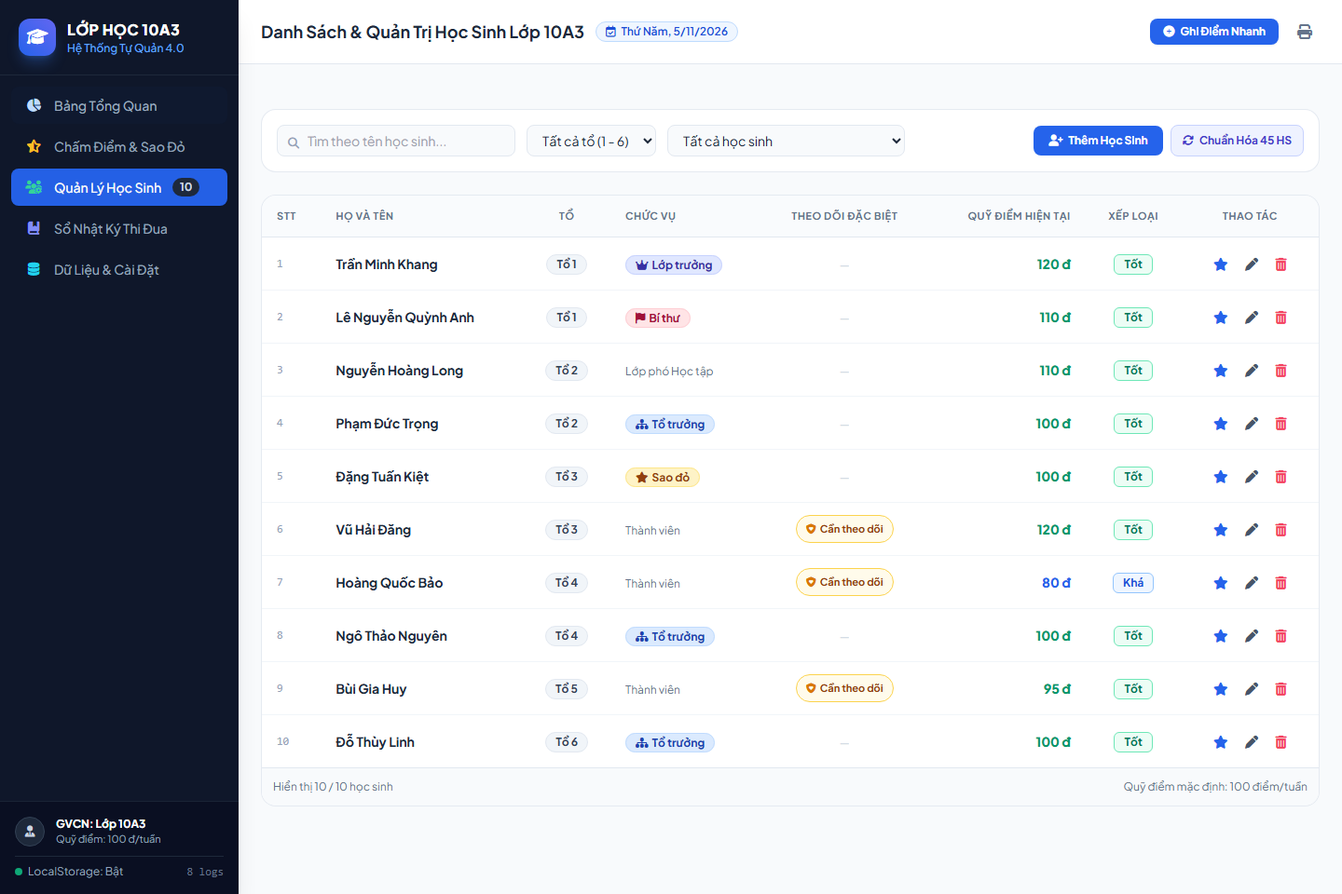
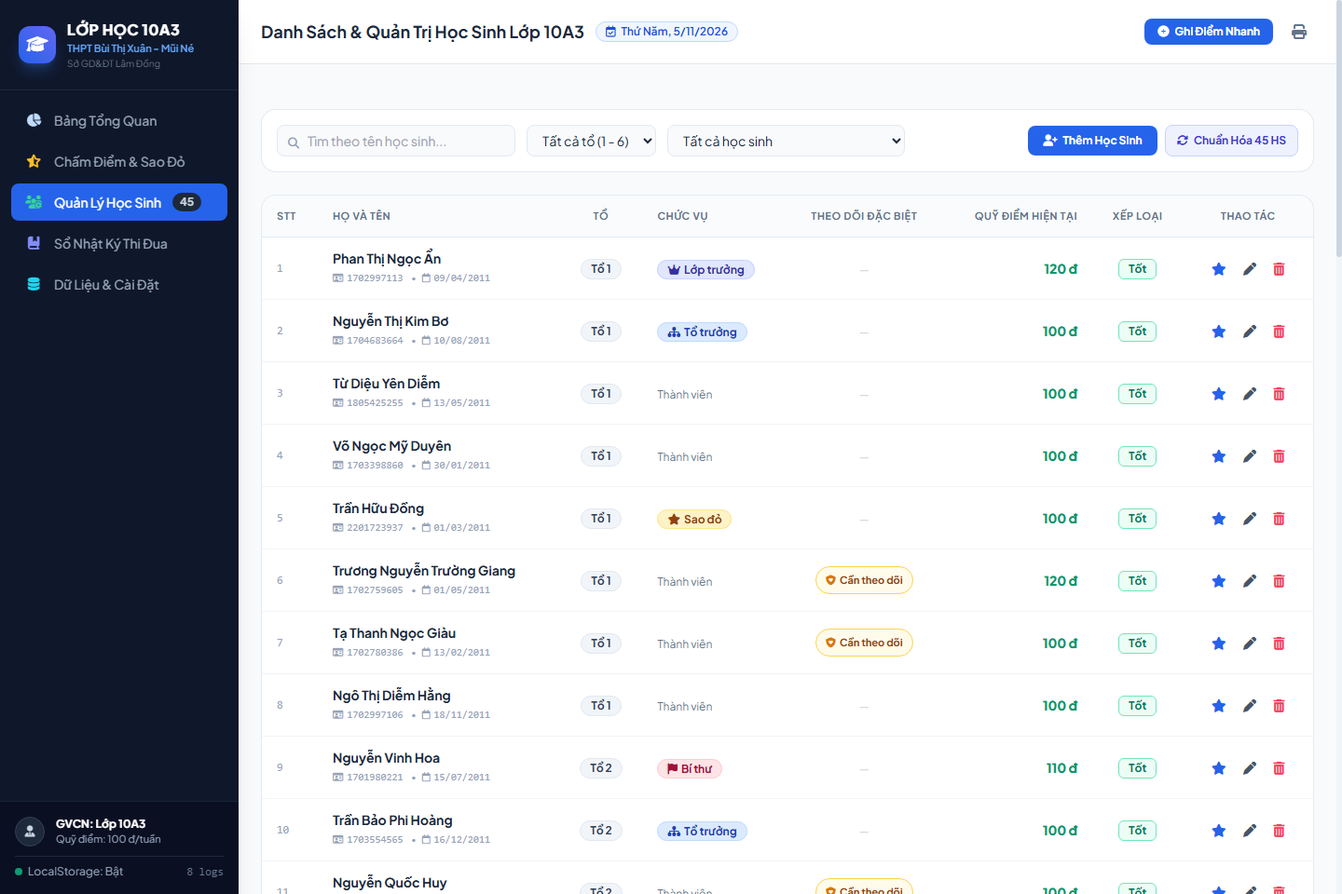
feat: Cap nhat danh sach chinh thuc 45 hoc sinh THPT Bui Thi Xuan - Mui Ne

diff --git a/app.js b/app.js
@@ -62,9 +62,10 @@ document.addEventListener('DOMContentLoaded', () => {
   renderRuleButtons();
   loadDataFromStorage();
 
-  // Nếu chưa có dữ liệu, tự động nạp 10 học sinh mẫu ban đầu theo Protocol
-  if (appState.students.length === 0) {
-    inject10SampleStudents(false);
+  // Tự động nạp danh sách 45 học sinh chính thức THPT Bùi Thị Xuân - Mũi Né nếu chưa có hoặc đang là dữ liệu demo cũ
+  const isOldDemo = appState.students.length <= 10 && appState.students.some(s => s.fullName === 'Trần Minh Khang');
+  if (appState.students.length === 0 || isOldDemo) {
+    injectOfficial45Students(false);
   }
 
   // Kiểm tra URL hash (vd: #scoring, #students) để mở tab tương ứng
@@ -678,8 +679,12 @@ function renderStudentsTable() {
 
     tr.innerHTML = `
       <td class="py-3 px-4 font-mono text-xs text-slate-400">${index + 1}</td>
-      <td class="py-3 px-4 font-bold text-slate-800 cursor-pointer hover:text-blue-600" onclick="openStudentDetailModal('${stu.id}')">
-        ${escapeHtml(stu.fullName)}
+      <td class="py-3 px-4 cursor-pointer" onclick="openStudentDetailModal('${stu.id}')">
+        <span class="font-bold text-slate-800 text-sm hover:text-blue-600 transition block">${escapeHtml(stu.fullName)}</span>
+        <span class="text-[11px] text-slate-400 font-mono flex items-center space-x-2 mt-0.5">
+          <span><i class="fa-regular fa-id-card text-[10px] mr-1"></i>${stu.code || 'Chưa có mã'}</span>
+          ${stu.dob ? `<span>• <i class="fa-regular fa-calendar text-[10px] mr-1"></i>${stu.dob}</span>` : ''}
+        </span>
       </td>
       <td class="py-3 px-4 text-center">
         <span class="inline-block px-2.5 py-0.5 rounded-full text-xs font-bold bg-slate-100 text-slate-700 border border-slate-200">
@@ -734,6 +739,8 @@ function openAddStudentModal() {
   document.getElementById('modal-student-title').textContent = 'Thêm Học Sinh Mới';
   document.getElementById('student-form-id').value = '';
   document.getElementById('student-form-name').value = '';
+  document.getElementById('student-form-code').value = '';
+  document.getElementById('student-form-dob').value = '';
   document.getElementById('student-form-group').value = '1';
   document.getElementById('student-form-role').value = 'Thành viên';
   document.getElementById('student-form-special').checked = false;
@@ -750,6 +757,8 @@ function openEditStudentModal(id) {
   document.getElementById('modal-student-title').textContent = 'Chỉnh Sửa Thông Tin Học Sinh';
   document.getElementById('student-form-id').value = stu.id;
   document.getElementById('student-form-name').value = stu.fullName;
+  document.getElementById('student-form-code').value = stu.code || '';
+  document.getElementById('student-form-dob').value = stu.dob || '';
   document.getElementById('student-form-group').value = stu.groupNumber;
   document.getElementById('student-form-role').value = stu.role;
   document.getElementById('student-form-special').checked = stu.isSpecialSupport;
@@ -769,6 +778,8 @@ function saveStudentForm(e) {
   e.preventDefault();
   const id = document.getElementById('student-form-id').value;
   const fullName = document.getElementById('student-form-name').value.trim();
+  const code = document.getElementById('student-form-code').value.trim();
+  const dob = document.getElementById('student-form-dob').value.trim();
   const groupNumber = Number(document.getElementById('student-form-group').value);
   const role = document.getElementById('student-form-role').value;
   const isSpecialSupport = document.getElementById('student-form-special').checked;
@@ -785,6 +796,8 @@ function saveStudentForm(e) {
       appState.students[index] = {
         ...appState.students[index],
         fullName,
+        code,
+        dob,
         groupNumber,
         role,
         isSpecialSupport
@@ -795,6 +808,8 @@ function saveStudentForm(e) {
     // Thêm mới
     const newStudent = {
       id: generateUUID(),
+      code,
+      dob,
       fullName,
       groupNumber,
       role,
@@ -908,7 +923,7 @@ function openStudentDetailModal(studentId) {
   const stuLogs = appState.dailyLogs.filter(l => l.studentId === studentId);
 
   document.getElementById('detail-student-name').textContent = stu.fullName;
-  document.getElementById('detail-student-meta').textContent = `Tổ ${stu.groupNumber} • ${stu.role}${stu.isSpecialSupport ? ' • [Cần hỗ trợ đặc biệt]' : ''}`;
+  document.getElementById('detail-student-meta').textContent = `Tổ ${stu.groupNumber} • ${stu.role}${stu.code ? ` • Mã: ${stu.code}` : ''}${stu.dob ? ` • NS: ${stu.dob}` : ''}${stu.isSpecialSupport ? ' • [Cần hỗ trợ đặc biệt]' : ''}`;
   document.getElementById('detail-student-score').textContent = `${score} đ`;
   document.getElementById('detail-student-rank').textContent = tier.label;
   document.getElementById('detail-student-rank').className = `text-sm font-bold ${tier.color} px-2 py-0.5 rounded border inline-block`;
@@ -1005,52 +1020,103 @@ function inject10SampleStudents(notify = true) {
   }
 }
 
-// Khởi tạo toàn bộ 45 học sinh lớp 10A3 chuẩn (6 tổ, 10 em diện theo dõi đặc biệt)
+// ==================== DỮ LIỆU CHÍNH THỨC 45 HỌC SINH 10A3 ====================
+// Trường THPT Bùi Thị Xuân - Mũi Né (Sở GD&ĐT Lâm Đồng)
+const OFFICIAL_10A3_STUDENTS = [
+  // Tổ 1 (8 học sinh, 2 diện hỗ trợ)
+  { id: 'hs_10a3_01', code: '1702997113', fullName: 'Phan Thị Ngọc Ẩn', dob: '09/04/2011', groupNumber: 1, role: 'Lớp trưởng', isSpecialSupport: false },
+  { id: 'hs_10a3_02', code: '1704683664', fullName: 'Nguyễn Thị Kim Bơ', dob: '10/08/2011', groupNumber: 1, role: 'Tổ trưởng', isSpecialSupport: false },
+  { id: 'hs_10a3_03', code: '1805425255', fullName: 'Từ Diệu Yên Diễm', dob: '13/05/2011', groupNumber: 1, role: 'Thành viên', isSpecialSupport: false },
+  { id: 'hs_10a3_04', code: '1703398860', fullName: 'Võ Ngọc Mỹ Duyên', dob: '30/01/2011', groupNumber: 1, role: 'Thành viên', isSpecialSupport: false },
+  { id: 'hs_10a3_05', code: '2201723937', fullName: 'Trần Hữu Đồng', dob: '01/03/2011', groupNumber: 1, role: 'Sao đỏ', isSpecialSupport: false },
+  { id: 'hs_10a3_06', code: '1702759605', fullName: 'Trương Nguyễn Trường Giang', dob: '01/05/2011', groupNumber: 1, role: 'Thành viên', isSpecialSupport: true },
+  { id: 'hs_10a3_07', code: '1702780386', fullName: 'Tạ Thanh Ngọc Giàu', dob: '13/02/2011', groupNumber: 1, role: 'Thành viên', isSpecialSupport: true },
+  { id: 'hs_10a3_08', code: '1702997106', fullName: 'Ngô Thị Diễm Hằng', dob: '18/11/2011', groupNumber: 1, role: 'Thành viên', isSpecialSupport: false },
+
+  // Tổ 2 (8 học sinh, 2 diện hỗ trợ)
+  { id: 'hs_10a3_09', code: '1701980221', fullName: 'Nguyễn Vinh Hoa', dob: '15/07/2011', groupNumber: 2, role: 'Bí thư', isSpecialSupport: false },
+  { id: 'hs_10a3_10', code: '1703554565', fullName: 'Trần Bảo Phi Hoàng', dob: '16/12/2011', groupNumber: 2, role: 'Tổ trưởng', isSpecialSupport: false },
+  { id: 'hs_10a3_11', code: '1701470035', fullName: 'Nguyễn Quốc Huy', dob: '19/09/2011', groupNumber: 2, role: 'Thành viên', isSpecialSupport: true },
+  { id: 'hs_10a3_12', code: '1701384874', fullName: 'Đỗ Tuấn Hưng', dob: '17/06/2011', groupNumber: 2, role: 'Thành viên', isSpecialSupport: false },
+  { id: 'hs_10a3_13', code: '1701502384', fullName: 'Lê Minh Khải', dob: '25/06/2011', groupNumber: 2, role: 'Sao đỏ', isSpecialSupport: false },
+  { id: 'hs_10a3_14', code: '1704379491', fullName: 'Nguyễn Vinh Khang', dob: '16/10/2011', groupNumber: 2, role: 'Thành viên', isSpecialSupport: false },
+  { id: 'hs_10a3_15', code: '1704121058', fullName: 'Võ Quốc Duy Khôi', dob: '06/07/2011', groupNumber: 2, role: 'Thành viên', isSpecialSupport: true },
+  { id: 'hs_10a3_16', code: '1701502268', fullName: 'Nguyễn Tấn Kỳ', dob: '26/12/2011', groupNumber: 2, role: 'Thành viên', isSpecialSupport: false },
+
+  // Tổ 3 (8 học sinh, 1 diện hỗ trợ)
+  { id: 'hs_10a3_17', code: '1702780666', fullName: 'Lê Thị Mỹ Linh', dob: '15/10/2011', groupNumber: 3, role: 'Lớp phó Học tập', isSpecialSupport: false },
+  { id: 'hs_10a3_18', code: '1702780393', fullName: 'Nguyễn Đỗ Kim Yến Linh', dob: '19/06/2011', groupNumber: 3, role: 'Tổ trưởng', isSpecialSupport: false },
+  { id: 'hs_10a3_19', code: '1704303580', fullName: 'Bùi Nguyễn Hoàng Long', dob: '30/10/2011', groupNumber: 3, role: 'Thành viên', isSpecialSupport: false },
+  { id: 'hs_10a3_20', code: '1702880874', fullName: 'Nguyễn Bảo Long', dob: '24/04/2011', groupNumber: 3, role: 'Thành viên', isSpecialSupport: false },
+  { id: 'hs_10a3_21', code: '1703805924', fullName: 'Trần Minh Luân', dob: '25/12/2011', groupNumber: 3, role: 'Sao đỏ', isSpecialSupport: false },
+  { id: 'hs_10a3_22', code: '1701941028', fullName: 'Nguyễn Hữu Đan Mạch', dob: '01/01/2011', groupNumber: 3, role: 'Thành viên', isSpecialSupport: true },
+  { id: 'hs_10a3_23', code: '1704684195', fullName: 'Trương Thị Mỹ Ngân', dob: '23/02/2011', groupNumber: 3, role: 'Thành viên', isSpecialSupport: false },
+  { id: 'hs_10a3_24', code: '1805586434', fullName: 'Nguyễn Hoàng Gia Nguyên', dob: '06/01/2011', groupNumber: 3, role: 'Thành viên', isSpecialSupport: false },
+
+  // Tổ 4 (7 học sinh, 2 diện hỗ trợ)
+  { id: 'hs_10a3_25', code: '1702780397', fullName: 'Võ Thị Yến Nhi', dob: '16/04/2011', groupNumber: 4, role: 'Lớp phó Lao động', isSpecialSupport: false },
+  { id: 'hs_10a3_26', code: '1703554579', fullName: 'Cao Ngọc An Nhiên', dob: '14/12/2011', groupNumber: 4, role: 'Tổ trưởng', isSpecialSupport: false },
+  { id: 'hs_10a3_27', code: '1702997079', fullName: 'Trần Lê Hồng Nhung', dob: '20/10/2011', groupNumber: 4, role: 'Thành viên', isSpecialSupport: false },
+  { id: 'hs_10a3_28', code: '1805586438', fullName: 'Võ Thành Phát', dob: '14/11/2011', groupNumber: 4, role: 'Thành viên', isSpecialSupport: true },
+  { id: 'hs_10a3_29', code: '1702716688', fullName: 'Nguyễn Xuân Phúc', dob: '23/11/2011', groupNumber: 4, role: 'Thành viên', isSpecialSupport: false },
+  { id: 'hs_10a3_30', code: '1701941035', fullName: 'Trần Thị Ngọc Phúc', dob: '09/09/2011', groupNumber: 4, role: 'Thành viên', isSpecialSupport: true },
+  { id: 'hs_10a3_31', code: '1704684848', fullName: 'Hoàng Thế Tài', dob: '04/10/2011', groupNumber: 4, role: 'Thành viên', isSpecialSupport: false },
+
+  // Tổ 5 (7 học sinh, 1 diện hỗ trợ)
+  { id: 'hs_10a3_32', code: '1704379981', fullName: 'Lê Tuấn Phát Tài', dob: '17/07/2011', groupNumber: 5, role: 'Tổ trưởng', isSpecialSupport: false },
+  { id: 'hs_10a3_33', code: '1703412028', fullName: 'Đỗ Quốc Thành', dob: '19/08/2011', groupNumber: 5, role: 'Sao đỏ', isSpecialSupport: false },
+  { id: 'hs_10a3_34', code: '1704831627', fullName: 'Nguyễn Ngọc Anh Thư', dob: '24/10/2011', groupNumber: 5, role: 'Thành viên', isSpecialSupport: false },
+  { id: 'hs_10a3_35', code: '1703919858', fullName: 'Nguyễn Ngọc Trinh', dob: '18/04/2011', groupNumber: 5, role: 'Thành viên', isSpecialSupport: true },
+  { id: 'hs_10a3_36', code: '1701981797', fullName: 'Lê Thị Kim Trúc', dob: '25/08/2011', groupNumber: 5, role: 'Thành viên', isSpecialSupport: false },
+  { id: 'hs_10a3_37', code: '1701981799', fullName: 'Võ Bách Tùng', dob: '19/08/2011', groupNumber: 5, role: 'Thành viên', isSpecialSupport: false },
+  { id: 'hs_10a3_38', code: '1704784854', fullName: 'Nguyễn Thị Thanh Tuyền', dob: '12/01/2011', groupNumber: 5, role: 'Thành viên', isSpecialSupport: false },
+
+  // Tổ 6 (7 học sinh, 2 diện hỗ trợ)
+  { id: 'hs_10a3_39', code: '1702759627', fullName: 'Nguyễn Thị Thanh Tuyền', dob: '14/06/2011', groupNumber: 6, role: 'Thành viên', isSpecialSupport: false },
+  { id: 'hs_10a3_40', code: '1803521194', fullName: 'Trần Phúc Vinh', dob: '06/09/2011', groupNumber: 6, role: 'Tổ trưởng', isSpecialSupport: false },
+  { id: 'hs_10a3_41', code: '1701472685', fullName: 'Lê Gia Vũ', dob: '08/03/2011', groupNumber: 6, role: 'Thành viên', isSpecialSupport: true },
+  { id: 'hs_10a3_42', code: '1702780409', fullName: 'Lê Văn Vũ', dob: '03/01/2011', groupNumber: 6, role: 'Thành viên', isSpecialSupport: false },
+  { id: 'hs_10a3_43', code: '1704246671', fullName: 'Dương Lục Yến Vy', dob: '24/09/2011', groupNumber: 6, role: 'Thành viên', isSpecialSupport: false },
+  { id: 'hs_10a3_44', code: '2511977424', fullName: 'Phạm Ngọc Tường Vy', dob: '01/08/2010', groupNumber: 6, role: 'Thành viên', isSpecialSupport: true },
+  { id: 'hs_10a3_45', code: '1703509575', fullName: 'Đỗ Khôi Vỹ', dob: '08/12/2011', groupNumber: 6, role: 'Thành viên', isSpecialSupport: false }
+];
+
+// Khởi tạo toàn bộ 45 học sinh lớp 10A3 chuẩn
 function injectFull45StudentsPrompt() {
-  if (confirm('Thao tác này sẽ tải danh sách chuẩn 45 học sinh của lớp 10A3 (chia đều 6 tổ, có đủ 10 em diện hỗ trợ đặc biệt). Tiếp tục?')) {
-    injectFull45Students();
+  if (confirm('Thao tác này sẽ tải danh sách chính thức 45 học sinh Lớp 10A3 Trường THPT Bùi Thị Xuân - Mũi Né (chia đều 6 tổ, 10 em diện theo dõi đặc biệt). Tiếp tục?')) {
+    injectOfficial45Students(true);
   }
 }
 
-function injectFull45Students() {
-  const firstNames = ['Nguyễn', 'Trần', 'Lê', 'Phạm', 'Hoàng', 'Vũ', 'Phan', 'Võ', 'Đặng', 'Bùi', 'Đỗ', 'Hồ', 'Ngô', 'Dương', 'Lý'];
-  const middleNames = ['Văn', 'Thị', 'Đức', 'Minh', 'Ngọc', 'Thanh', 'Quốc', 'Gia', 'Hải', 'Thùy', 'Hữu', 'Anh'];
-  const lastNames = ['An', 'Bình', 'Cường', 'Dũng', 'Giang', 'Hà', 'Hải', 'Hiếu', 'Huy', 'Khoa', 'Linh', 'Long', 'Mai', 'Nam', 'Nhi', 'Phong', 'Phúc', 'Quân', 'Sơn', 'Tài', 'Tâm', 'Thảo', 'Trang', 'Trung', 'Tuấn', 'Tùng', 'Vinh', 'Vy', 'Yến'];
+function injectOfficial45Students(notify = true) {
+  const today = new Date().toISOString().split('T')[0];
+  const yesterday = new Date(Date.now() - 86400000).toISOString().split('T')[0];
 
-  // 10 chỉ số học sinh diện theo dõi đặc biệt
-  const specialIndices = new Set([5, 6, 12, 18, 23, 27, 31, 35, 41, 44]);
+  const sampleLogs = [
+    // Lớp trưởng Phan Thị Ngọc Ẩn hoàn thành xuất sắc
+    { id: 'log_01', date: today, studentId: 'hs_10a3_01', type: 'bonus', ruleKey: 'bonus_duty_excellent', ruleLabel: 'Cán sự làm tốt nhiệm vụ tháng', pointsChanged: 20, recordedBy: 'GVCN', note: 'Quản lý 15 phút đầu giờ nghiêm túc', timestamp: Date.now() - 1000 },
+    // Bí thư Nguyễn Vinh Hoa kèm bạn yếu Toán
+    { id: 'log_02', date: today, studentId: 'hs_10a3_09', type: 'bonus', ruleKey: 'bonus_peer_tutoring', ruleLabel: 'Kèm bạn yếu Toán/Lý (+10 cho cả hai)', pointsChanged: 10, recordedBy: 'Lớp trưởng', note: 'Kèm bạn Trương Nguyễn Trường Giang', timestamp: Date.now() - 2000 },
+    // Trương Nguyễn Trường Giang (diện hỗ trợ) được cộng điểm kèm và nỗ lực
+    { id: 'log_03', date: today, studentId: 'hs_10a3_06', type: 'bonus', ruleKey: 'bonus_peer_tutoring', ruleLabel: 'Kèm bạn yếu Toán/Lý (+10 cho cả hai)', pointsChanged: 10, recordedBy: 'Lớp trưởng', note: 'Học nhóm tiến bộ cùng bạn Hoa', timestamp: Date.now() - 3000 },
+    { id: 'log_04', date: yesterday, studentId: 'hs_10a3_06', type: 'bonus', ruleKey: 'bonus_effort_support', ruleLabel: 'Học sinh yếu có nỗ lực làm bài', pointsChanged: 10, recordedBy: 'GV Bộ môn Toán', note: 'Chủ động lên chữa bài tập về nhà', timestamp: Date.now() - 4000 },
+    // Nguyễn Đỗ Kim Yến Linh (Tổ trưởng 3)
+    { id: 'log_05', date: today, studentId: 'hs_10a3_18', type: 'bonus', ruleKey: 'bonus_board_solution', ruleLabel: 'Xung phong lên bảng đúng', pointsChanged: 10, recordedBy: 'Sao đỏ Tổ 2', note: 'Tiết Hóa học', timestamp: Date.now() - 5000 },
+    // Nguyễn Quốc Huy (diện hỗ trợ) vi phạm và nỗ lực gỡ điểm
+    { id: 'log_06', date: yesterday, studentId: 'hs_10a3_11', type: 'violation', ruleKey: 'viol_no_homework', ruleLabel: 'Không làm bài / không học bài', pointsChanged: -10, recordedBy: 'Sao đỏ Tổ 4', note: 'Thiếu bài tập Tiếng Anh', timestamp: Date.now() - 6000 },
+    { id: 'log_07', date: today, studentId: 'hs_10a3_11', type: 'bonus', ruleKey: 'bonus_effort_support', ruleLabel: 'Học sinh yếu có nỗ lực làm bài', pointsChanged: 10, recordedBy: 'GVCN', note: 'Làm lại đầy đủ bài tập bù', timestamp: Date.now() - 7000 },
+    // Võ Thành Phát (diện hỗ trợ) đi muộn
+    { id: 'log_08', date: today, studentId: 'hs_10a3_28', type: 'violation', ruleKey: 'viol_late_uniform', ruleLabel: 'Đi muộn / sai đồng phục', pointsChanged: -5, recordedBy: 'Sao đỏ trực cổng', note: 'Muộn 10 phút tiết 1', timestamp: Date.now() - 8000 }
+  ];
 
-  const students45 = [];
-  let nameCounter = 0;
-
-  for (let i = 1; i <= 45; i++) {
-    const fn = firstNames[i % firstNames.length];
-    const mn = middleNames[(i * 3) % middleNames.length];
-    const ln = lastNames[(i * 7) % lastNames.length];
-    const groupNum = ((i - 1) % 6) + 1;
-
-    let role = 'Thành viên';
-    if (i === 1) role = 'Lớp trưởng';
-    else if (i === 2) role = 'Bí thư';
-    else if (i === 3) role = 'Lớp phó Học tập';
-    else if (i === 4) role = 'Lớp phó Lao động';
-    else if (i <= 10 && i % 2 === 0) role = 'Tổ trưởng';
-    else if (i <= 16 && i % 3 === 0) role = 'Sao đỏ';
-
-    students45.push({
-      id: `hs_10a3_${i.toString().padStart(2, '0')}`,
-      fullName: `${fn} ${mn} ${ln}`,
-      groupNumber: groupNum,
-      role: role,
-      isSpecialSupport: specialIndices.has(i),
-      createdDate: new Date().toISOString()
-    });
-  }
-
-  appState.students = students45;
+  appState.students = OFFICIAL_10A3_STUDENTS;
+  appState.dailyLogs = sampleLogs;
   saveDataToStorage();
   refreshAllUI();
-  showToast('Đã nạp đầy đủ danh sách 45 học sinh lớp 10A3!', 'success');
+
+  if (notify) {
+    showToast('Đã nạp danh sách chính thức 45 học sinh Lớp 10A3 Trường THPT Bùi Thị Xuân - Mũi Né!', 'success');
+  }
 }
 
 // Reset toàn bộ về trắng

diff --git a/index.html b/index.html
@@ -52,7 +52,8 @@
         </div>
         <div>
           <h1 class="text-base font-extrabold text-white tracking-wide">LỚP HỌC 10A3</h1>
-          <p class="text-xs text-blue-400 font-medium">Hệ Thống Tự Quản 4.0</p>
+          <p class="text-[11px] text-blue-400 font-semibold truncate max-w-[160px]" title="THPT Bùi Thị Xuân - Mũi Né">THPT Bùi Thị Xuân - Mũi Né</p>
+          <p class="text-[10px] text-slate-500">Sở GD&ĐT Lâm Đồng</p>
         </div>
       </div>
 
@@ -642,7 +643,17 @@
         <input type="hidden" id="student-form-id">
         <div>
           <label class="block text-xs font-bold text-slate-700 uppercase mb-1">Họ và Tên Học Sinh <span class="text-rose-500">*</span></label>
-          <input type="text" id="student-form-name" required placeholder="Ví dụ: Nguyễn Văn An" class="w-full border border-slate-300 rounded-lg px-3 py-2 focus:ring-2 focus:ring-blue-500 focus:outline-none">
+          <input type="text" id="student-form-name" required placeholder="Ví dụ: Phan Thị Ngọc Ẩn" class="w-full border border-slate-300 rounded-lg px-3 py-2 focus:ring-2 focus:ring-blue-500 focus:outline-none">
+        </div>
+        <div class="grid grid-cols-2 gap-3">
+          <div>
+            <label class="block text-xs font-bold text-slate-700 uppercase mb-1">Mã Học Sinh</label>
+            <input type="text" id="student-form-code" placeholder="Ví dụ: 1702997113" class="w-full border border-slate-300 rounded-lg px-3 py-2 font-mono text-sm focus:ring-2 focus:ring-blue-500 focus:outline-none">
+          </div>
+          <div>
+            <label class="block text-xs font-bold text-slate-700 uppercase mb-1">Ngày Sinh (DD/MM/YYYY)</label>
+            <input type="text" id="student-form-dob" placeholder="Ví dụ: 09/04/2011" class="w-full border border-slate-300 rounded-lg px-3 py-2 text-sm focus:ring-2 focus:ring-blue-500 focus:outline-none">
+          </div>
         </div>
         <div class="grid grid-cols-2 gap-3">
           <div>

diff --git a/walkthrough.md b/walkthrough.md
@@ -1,8 +1,9 @@
 # Cẩm Nang Bàn Giao & Hướng Dẫn Sử Dụng Dashboard Quản Trị Lớp 10A3
+**Trường THPT Bùi Thị Xuân - Mũi Né | Sở GD&ĐT Lâm Đồng**
 
 Kính gửi Thầy/Cô Chủ nhiệm Lớp 10A3,
 
-Hệ thống **Dashboard Quản Trị Lớp Học Tự Quản 10A3 (Phiên Bản Toàn Diện - Token Economy)** đã được hoàn thiện 100%, sẵn sàng đưa vào vận hành ngay để thúc đẩy phong trào thi đua của lớp.
+Hệ thống **Dashboard Quản Trị Lớp Học Tự Quản 10A3 (Phiên Bản Toàn Diện - Token Economy)** đã được tích hợp toàn bộ **danh sách chính thức 45 học sinh** của lớp (kèm Mã học sinh, Ngày sinh, phân 6 tổ, Ban cán sự và 10 học sinh diện theo dõi đặc biệt).
 
 ---
 
@@ -15,36 +16,29 @@ Hệ thống hoạt động hoàn toàn độc lập (Offline), không yêu cầ
    `C:\Users\admin\.gemini\antigravity\scratch\dashboard-10a3\`
 2. Click đúp chuột vào tệp [index.html](file:///C:/Users/admin/.gemini/antigravity/scratch/dashboard-10a3/index.html) (hoặc chuột phải chọn **Open with** &rarr; **Microsoft Edge** hoặc **Google Chrome**).
 
-### Cách 2: Chạy Web Server Cục Bộ (Tùy chọn chia sẻ trong mạng lớp học)
-Mở PowerShell tại thư mục trên và gõ:
-```powershell
-python -m http.server 8080
-```
-Sau đó truy cập: `http://localhost:8080` trên trình duyệt.
+### Cách 2: Truy cập Trực tuyến qua Vercel
+Thầy/Cô và học sinh có thể mở ngay từ điện thoại/máy tính bảng qua đường dẫn:
+[https://sonic-harp-a0kc1oh.tmp.now](https://sonic-harp-a0kc1oh.tmp.now)
 
 ---
 
-## 2. Cách Xóa Dữ Liệu Mẫu & Khởi Tạo Danh Sách Lớp Thật
+## 2. Danh Sách 45 Học Sinh & Cấu Trúc 6 Tổ
 
-Hệ thống đang tích hợp sẵn 10 học sinh mẫu (đầy đủ chức vụ và lịch sử điểm mô phỏng) để Thầy/Cô và Ban Cán Sự trải nghiệm thử. Khi bắt đầu áp dụng thực tế:
+Hệ thống đã nạp sẵn 100% danh sách học sinh theo hồ sơ nhà trường:
+- **Tổ 1 (8 HS):** Phan Thị Ngọc Ẩn (Lớp trưởng), Nguyễn Thị Kim Bơ (Tổ trưởng), Từ Diệu Yên Diễm, Võ Ngọc Mỹ Duyên, Trần Hữu Đồng (Sao đỏ), Trương Nguyễn Trường Giang [Diện hỗ trợ], Tạ Thanh Ngọc Giàu [Diện hỗ trợ], Ngô Thị Diễm Hằng.
+- **Tổ 2 (8 HS):** Nguyễn Vinh Hoa (Bí thư), Trần Bảo Phi Hoàng (Tổ trưởng), Nguyễn Quốc Huy [Diện hỗ trợ], Đỗ Tuấn Hưng, Lê Minh Khải (Sao đỏ), Nguyễn Vinh Khang, Võ Quốc Duy Khôi [Diện hỗ trợ], Nguyễn Tấn Kỳ.
+- **Tổ 3 (8 HS):** Lê Thị Mỹ Linh (Lớp phó Học tập), Nguyễn Đỗ Kim Yến Linh (Tổ trưởng), Bùi Nguyễn Hoàng Long, Nguyễn Bảo Long, Trần Minh Luân (Sao đỏ), Nguyễn Hữu Đan Mạch [Diện hỗ trợ], Trương Thị Mỹ Ngân, Nguyễn Hoàng Gia Nguyên.
+- **Tổ 4 (7 HS):** Võ Thị Yến Nhi (Lớp phó Lao động), Cao Ngọc An Nhiên (Tổ trưởng), Trần Lê Hồng Nhung, Võ Thành Phát [Diện hỗ trợ], Nguyễn Xuân Phúc, Trần Thị Ngọc Phúc [Diện hỗ trợ], Hoàng Thế Tài.
+- **Tổ 5 (7 HS):** Lê Tuấn Phát Tài (Tổ trưởng), Đỗ Quốc Thành (Sao đỏ), Nguyễn Ngọc Anh Thư, Nguyễn Ngọc Trinh [Diện hỗ trợ], Lê Thị Kim Trúc, Võ Bách Tùng, Nguyễn Thị Thanh Tuyền (12/01/2011).
+- **Tổ 6 (7 HS):** Nguyễn Thị Thanh Tuyền (14/06/2011), Trần Phúc Vinh (Tổ trưởng), Lê Gia Vũ [Diện hỗ trợ], Lê Văn Vũ, Dương Lục Yến Vy, Phạm Ngọc Tường Vy [Diện hỗ trợ], Đỗ Khôi Vỹ.
 
-### Bước 1: Xóa dữ liệu mẫu
-1. Trên thanh điều hướng (Sidebar bên trái), click vào mục **"Dữ Liệu & Cài Đặt"**.
-2. Nhấn vào nút đỏ: **"Xóa Toàn Bộ Dữ Liệu (Reset Về Trắng)"**.
-3. Chọn **OK** khi hộp thoại xác nhận hiện ra. Toàn bộ điểm số và danh sách giả lập sẽ được làm sạch hoàn toàn.
+---
 
-### Bước 2: Nạp Danh Sách 45 Học Sinh Lớp 10A3
-Thầy/Cô có 2 lựa chọn tiện lợi:
+## 3. Khôi Phục & Quản Lý Dữ Liệu
 
-* **Lựa chọn A (Khuyên dùng - Nhanh nhất):**
-  1. Trong mục **"Dữ Liệu & Cài Đặt"**, bấm nút: **"Nạp Đầy Đủ 45 Học Sinh Lớp 10A3 (6 Tổ, 10 em diện hỗ trợ)"**.
-  2. Hệ thống sẽ tự động cấu trúc chuẩn 45 học sinh chia đều cho 6 tổ, gán sẵn các chức danh (Lớp trưởng, Bí thư, Tổ trưởng...) và đánh dấu sẵn 10 học sinh diện theo dõi đặc biệt.
-  3. Thầy/Cô chuyển sang tab **"Quản Lý Học Sinh"**, bấm biểu tượng cây bút <i class="fa-solid fa-pen"></i> để sửa lại Họ và Tên thật của từng em.
-
-* **Lựa chọn B (Nhập thủ công từng em):**
-  1. Vào tab **"Quản Lý Học Sinh"**.
-  2. Bấm nút xanh **"+ Thêm Học Sinh"**.
-  3. Điền Họ Tên, chọn Tổ (1 - 6), chức vụ và tick chọn vào ô *"Học sinh diện theo dõi đặc biệt (10 em đầu vào thấp)"* nếu thuộc nhóm cần kèm cặp.
+- **Khôi phục lại danh sách 45 học sinh chuẩn:** Trong tab **"Dữ Liệu & Cài Đặt"**, bấm nút **"Chuẩn Hóa 45 HS"** bất cứ lúc nào.
+- **Thêm/Sửa học sinh:** Trong tab **"Quản Lý Học Sinh"**, có thể tìm kiếm theo tên, sửa Mã HS, Ngày sinh, đổi tổ hoặc gán vai trò.
+- **Sao lưu định kỳ:** Bấm nút **"Tải File Backup (.json)"** hàng tuần để lưu hồ sơ về máy.
 
 ---
 
